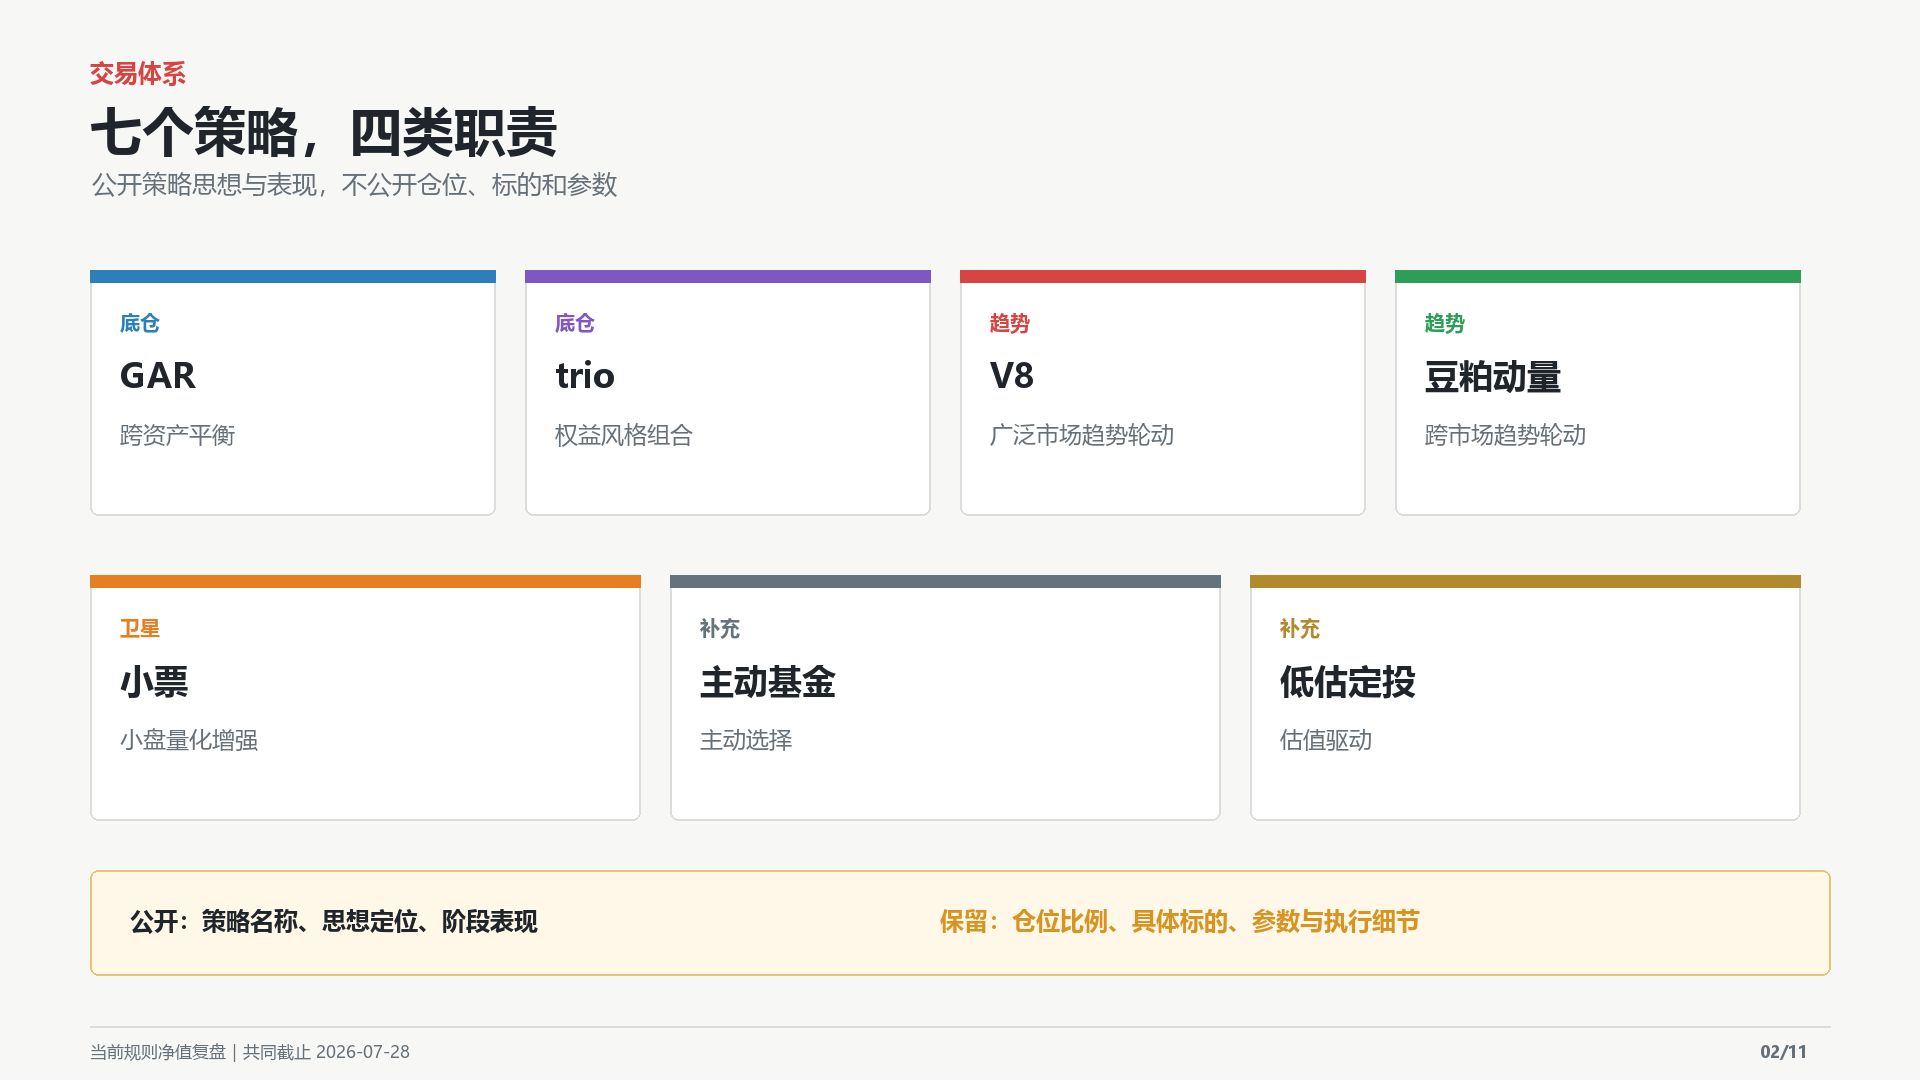
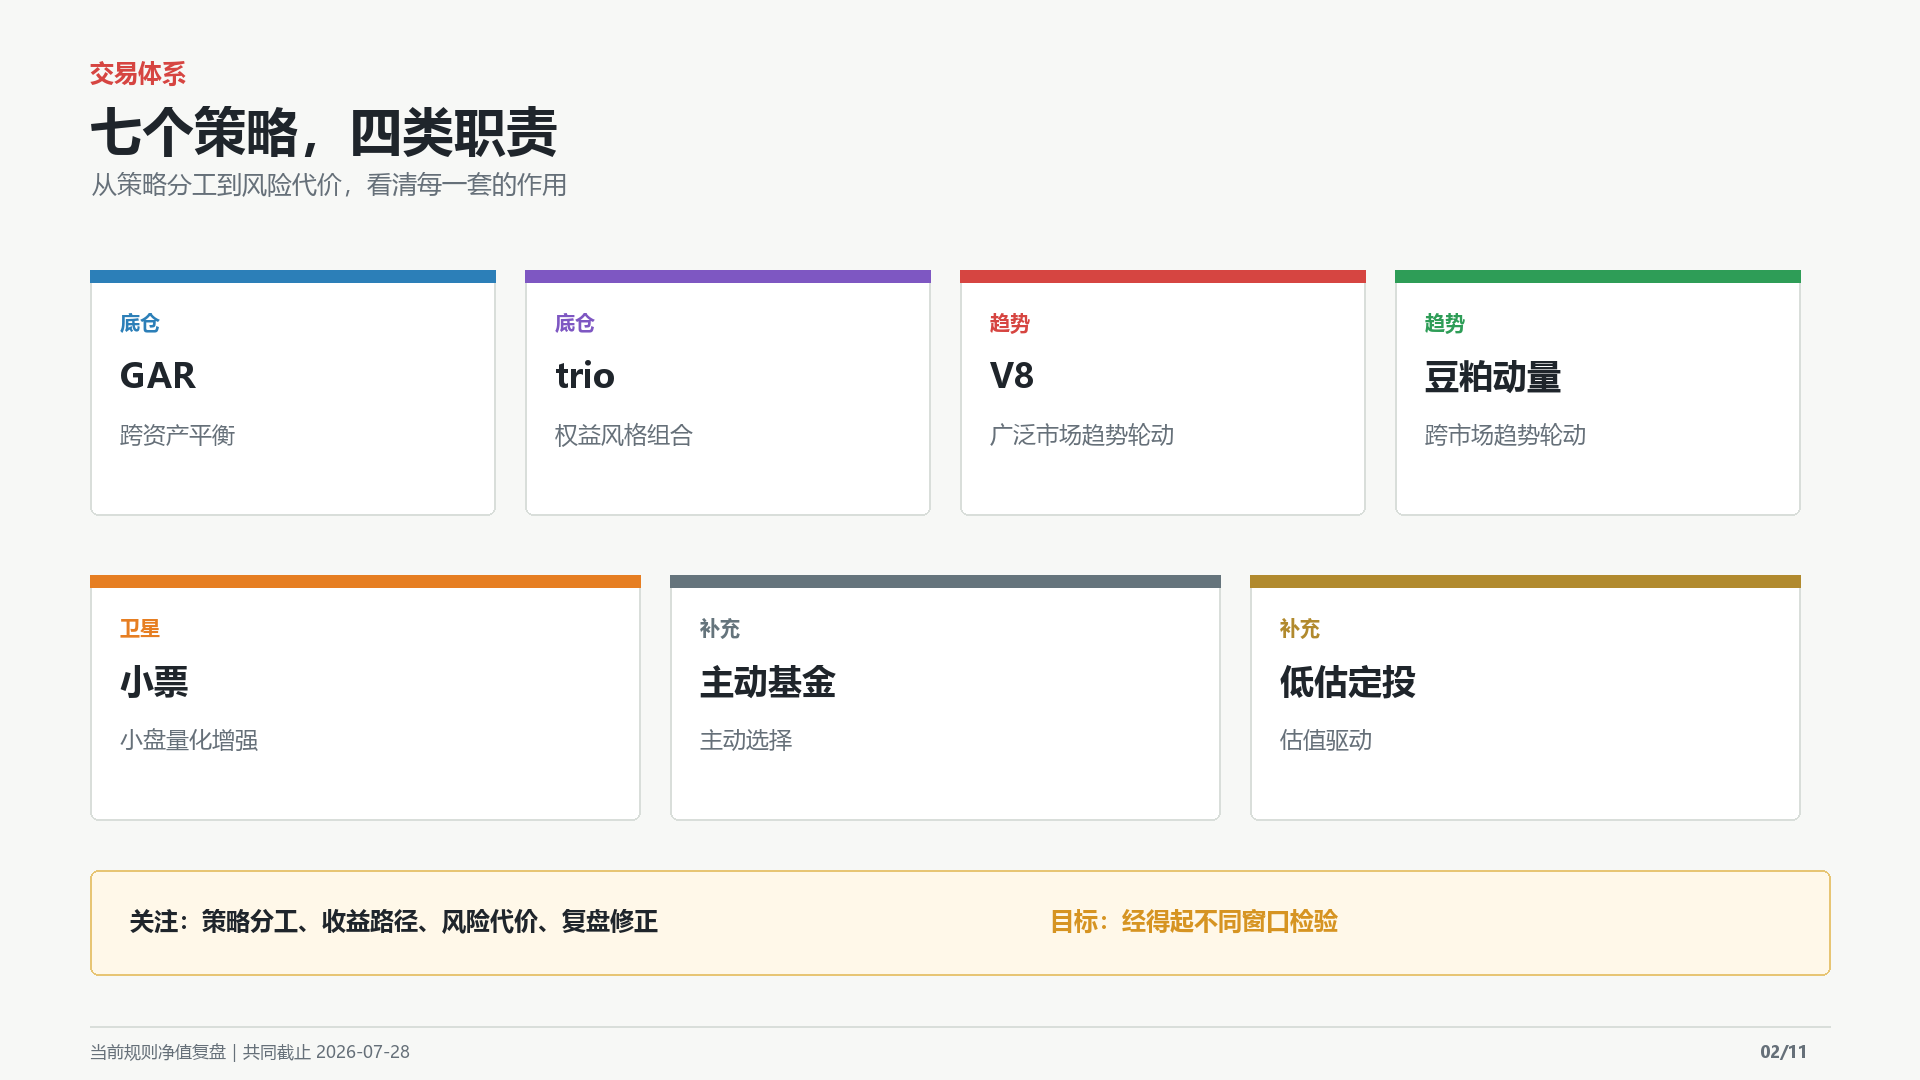
content: keep strategy review focused on results

diff --git a/video_202608_strategy_review/build_assets.py b/video_202608_strategy_review/build_assets.py
@@ -285,7 +285,7 @@ def build_cover(nav6: pd.DataFrame, metrics: dict[str, pd.DataFrame]) -> Image.I
 
 def build_system() -> Image.Image:
     image, draw = canvas()
-    header(draw, "交易体系", "七个策略，四类职责", "公开策略思想与表现，不公开仓位、标的和参数")
+    header(draw, "交易体系", "七个策略，四类职责", "从策略分工到风险代价，看清每一套的作用")
     for idx, (name, category, thought, color) in enumerate(PUBLIC_STRATEGIES):
         if idx < 4:
             x = 90 + idx * 435
@@ -301,8 +301,8 @@ def build_system() -> Image.Image:
         draw.text((x + 30, y + 82), name, font=font(34, True), fill=INK)
         draw.text((x + 30, y + 148), thought, font=font(23), fill=MUTED)
     card(draw, (90, 870, 1830, 975), fill="#FFF8E9", outline="#E7C574")
-    draw.text((130, 903), "公开：策略名称、思想定位、阶段表现", font=font(24, True), fill=INK)
-    draw.text((940, 903), "保留：仓位比例、具体标的、参数与执行细节", font=font(24, True), fill=AMBER)
+    draw.text((130, 903), "关注：策略分工、收益路径、风险代价、复盘修正", font=font(24, True), fill=INK)
+    draw.text((1050, 903), "目标：经得起不同窗口检验", font=font(24, True), fill=AMBER)
     footer(draw, 2)
     return image
 
@@ -440,7 +440,7 @@ def build_smallcap(nav6: pd.DataFrame, metrics: dict[str, pd.DataFrame]) -> Imag
     chart = chart_image(nav6[["小票"]], (980, 570), legend=False)
     image.paste(chart, (70, 250))
     card(draw, (1100, 250, 1820, 825), fill=PAPER)
-    draw.text((1150, 300), "公开的策略思想", font=font(30, True), fill=INK)
+    draw.text((1150, 300), "策略思想", font=font(30, True), fill=INK)
     factors = ["多维筛选", "风险排雷", "分散持有", "真实成本", "样本外验证"]
     x, y = 1150, 380
     for idx, value in enumerate(factors):
@@ -556,7 +556,7 @@ def build_principles() -> Image.Image:
 def build_end() -> Image.Image:
     image, draw = canvas()
     draw.text((90, 85), "下一阶段", font=font(26, True), fill=RED)
-    paragraph(draw, (90, 135), "不只晒收益，\n继续公开验证、错误与修正", font(68, True), INK, 1250, 16)
+    paragraph(draw, (90, 135), "不只晒收益，\n继续验证、复盘与修正", font(68, True), INK, 1250, 16)
     paragraph(
         draw,
         (94, 345),
@@ -567,8 +567,8 @@ def build_end() -> Image.Image:
         18,
     )
     items = [
-        ("规则", "公开每套策略怎样运行"),
-        ("过程", "公开复测、否决与犯过的错"),
+        ("体系", "解释不同策略各自的职责"),
+        ("过程", "记录复测、否决与犯过的错"),
         ("结果", "收益与回撤都不省略"),
     ]
     x = 90

diff --git a/video_202608_strategy_review/分镜表.md b/video_202608_strategy_review/分镜表.md
@@ -3,16 +3,16 @@
 | 时间 | 画面 | 核心屏幕文字 | 剪辑提示 |
 | --- | --- | --- | --- |
 | 00:00-00:25 | `01-封面与钩子.png` | 同样约 +2%，回撤为何差 4 倍？ | 开头先停留标题 2 秒，再依次强调 `+44.92% → +2.26%` 和 `-7.87%`。 |
-| 00:25-00:57 | `02-交易体系全貌.png` | 七个策略，四类职责 | 旁白念到各策略时，依次放大对应策略卡片，不展示仓位。 |
+| 00:25-00:57 | `02-交易体系全貌.png` | 七个策略，四类职责 | 旁白念到各策略时，依次放大对应策略卡片，突出不同职责。 |
 | 00:57-01:22 | `03-统一比较口径.png` | 同一天、同本金、同规则 | 三个条件逐项出现；最后显示“主动基金/低估定投不补造净值”。 |
 | 01:22-01:57 | `04-最近六个月总览.png` | 终点接近，不等于路径接近 | 曲线从左到右擦除出现，随后停在右侧终值标签。 |
-| 01:57-02:32 | `05-策略分工.png` | GAR 防守 / trio 权益底仓 / 豆粕趋势 | 只解释策略思想与表现，不出现标的、配比和参数。 |
+| 01:57-02:32 | `05-策略分工.png` | GAR 防守 / trio 权益底仓 / 豆粕趋势 | 依次高亮三套策略的角色、阶段收益和最大回撤。 |
 | 02:32-03:17 | `06-V8风险复盘.png` | 峰值 +44.92%，最终 +2.26%，最新全史回撤 -34.11% | 先显示半年曲线，再显示旧快照 `-19.07%` 被新样本突破。 |
-| 03:17-03:47 | `07-小票逆风.png` | 半年 -21.83%，但不在低谷追着改规则 | 先展示曲线，再出现公开层面的策略思想与卫星策略定位。 |
+| 03:17-03:47 | `07-小票逆风.png` | 半年 -21.83%，但不在低谷追着改规则 | 先展示曲线，再出现策略思想与卫星策略定位。 |
 | 03:47-04:17 | `08-最近一年对照.png` | 收益冠军、风险效率、最浅回撤并非同一策略 | 先显示表格，再依次高亮豆粕、trio、GAR 三行。 |
 | 04:17-04:57 | `09-最近三年对照.png` | 三年提高证据强度，也更需要解释样本 | 先展示累计收益，再显示年化、夏普和回撤；最后强调小票结果不能外推。 |
 | 04:57-05:35 | `10-体系四原则.png` | 分工、限仓、验证、纠错 | 四条原则逐条出现，保持每条至少 4 秒可读。 |
-| 05:35-06:00 | `11-结尾与关注.png` | 不只晒收益，持续公开验证、错误与修正 | 结尾保留 3 秒干净画面，方便添加账号名称和关注动画。 |
+| 05:35-06:00 | `11-结尾与关注.png` | 不只晒收益，继续验证、复盘与修正 | 结尾保留 3 秒干净画面，方便添加账号名称和关注动画。 |
 
 ## 后期原则
 

diff --git a/video_202608_strategy_review/数据口径.md b/video_202608_strategy_review/数据口径.md
@@ -10,9 +10,9 @@
 - 不使用真实账户建仓日，不混入资金申赎和人工执行差异。
 - 主动基金、低估定投没有统一生产规则净值，因此只在体系配置图中展示，不进入业绩曲线。
 
-## 五套曲线的公开描述
+## 五套策略的角色定位
 
-| 策略 | 视频公开的策略思想 |
+| 策略 | 策略思想 |
 | --- | --- |
 | GAR | 通过低相关大类资产与再平衡，降低单一市场周期的影响。 |
 | trio | 将主动选择与价值、质量、防御风格结合，作为权益底仓。 |
@@ -20,14 +20,12 @@
 | 豆粕动量 | 在不同市场之间捕捉趋势变化，作为独立趋势收益来源。 |
 | 小票 | 在小盘股票中进行多维量化筛选，并将风险排雷与交易约束纳入模型。 |
 
-公开视频不披露各策略仓位、具体标的、参数、持仓数量、调仓频率和执行细节。
-
 ## V8 风险数据
 
 - 视频六个月共同窗口最大回撤：-29.44%。
 - 截至 2026-06-10 的旧归档全历史最大回撤：-19.07%。
 - 相同生产引擎完整重跑至 2026-07-31 后的全历史最大回撤：-34.11%。
-- 关键行情已经两个独立数据源核验，结果一致；公开视频不披露具体持仓。
+- 关键行情已经两个独立数据源核验，结果一致。
 
 ## 三年结果的解释边界
 
